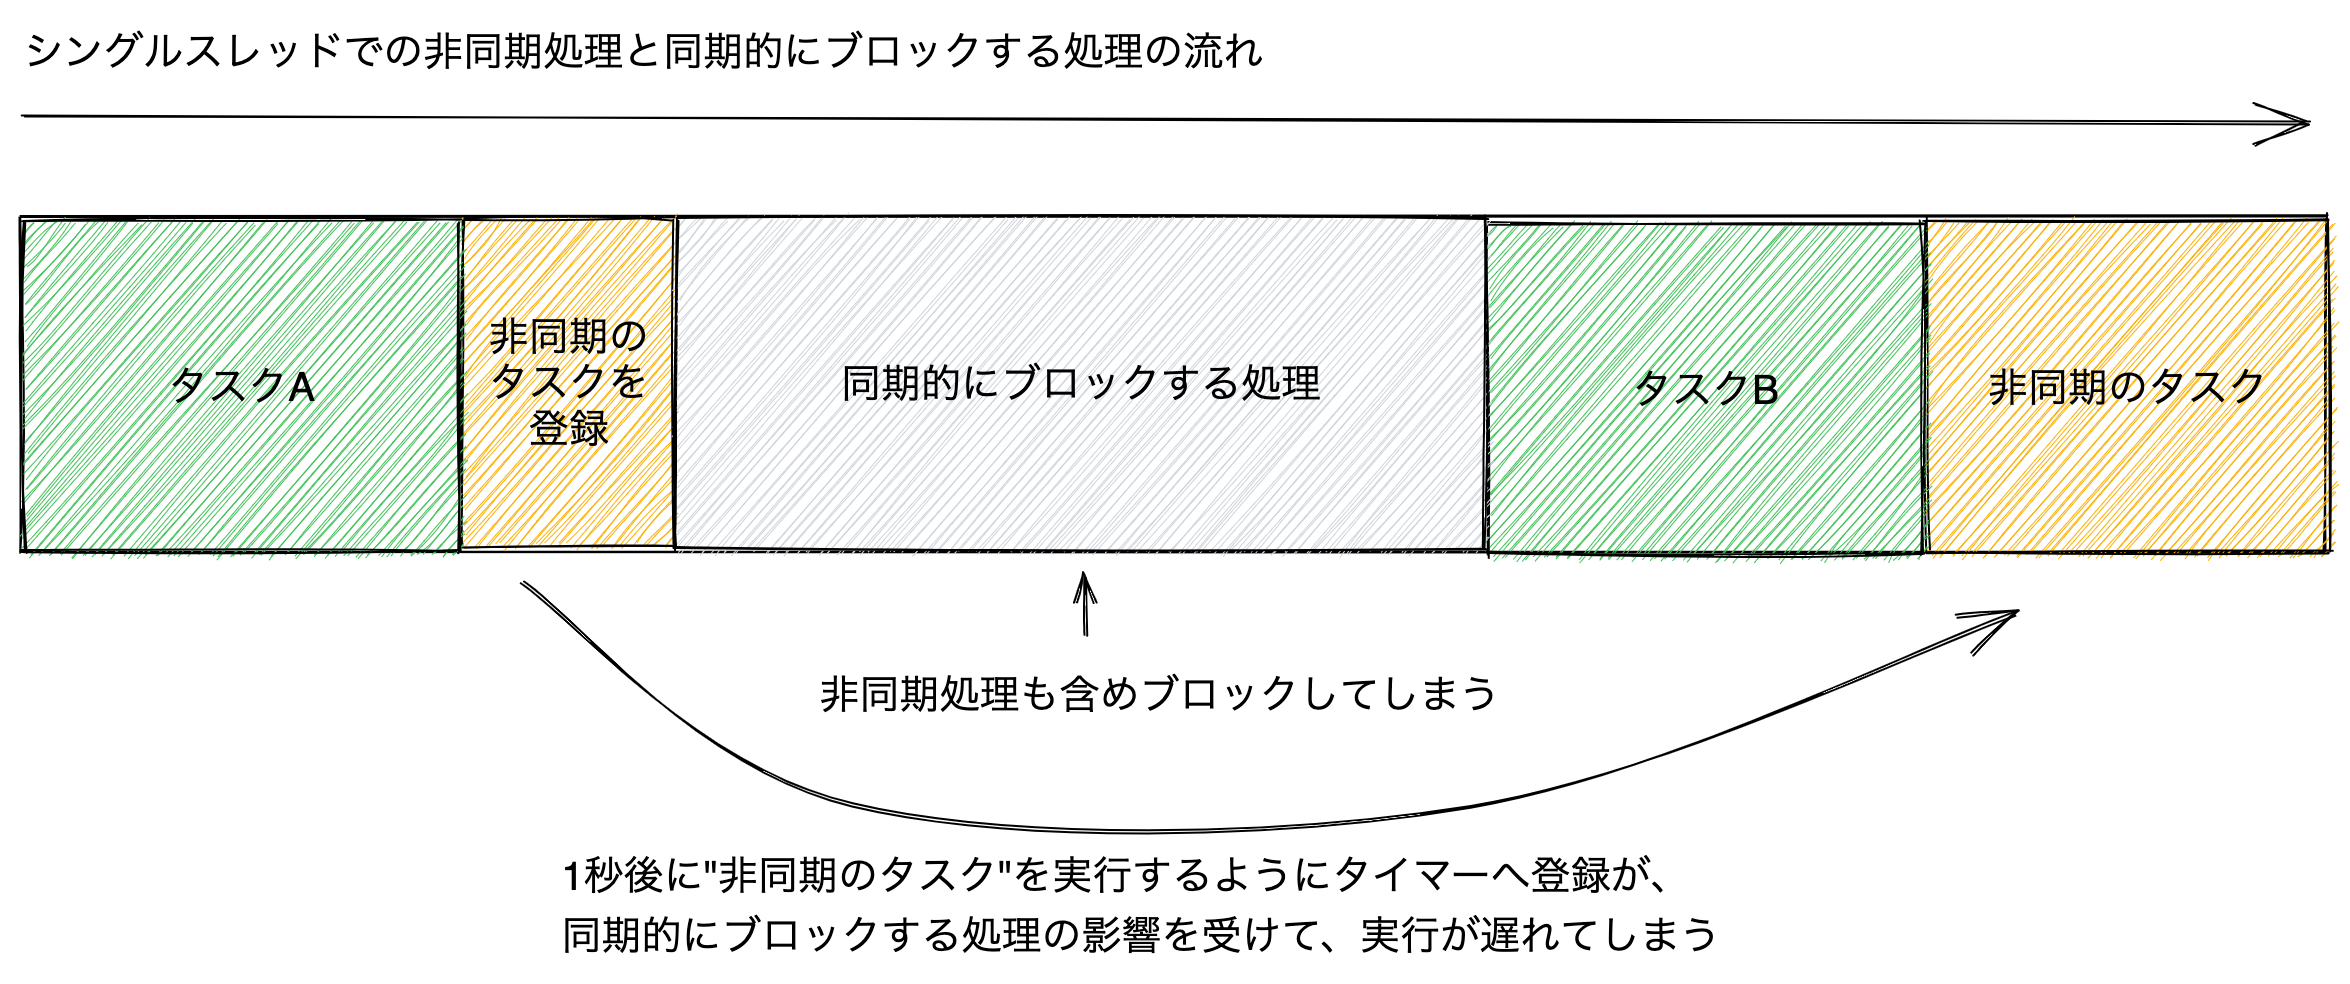
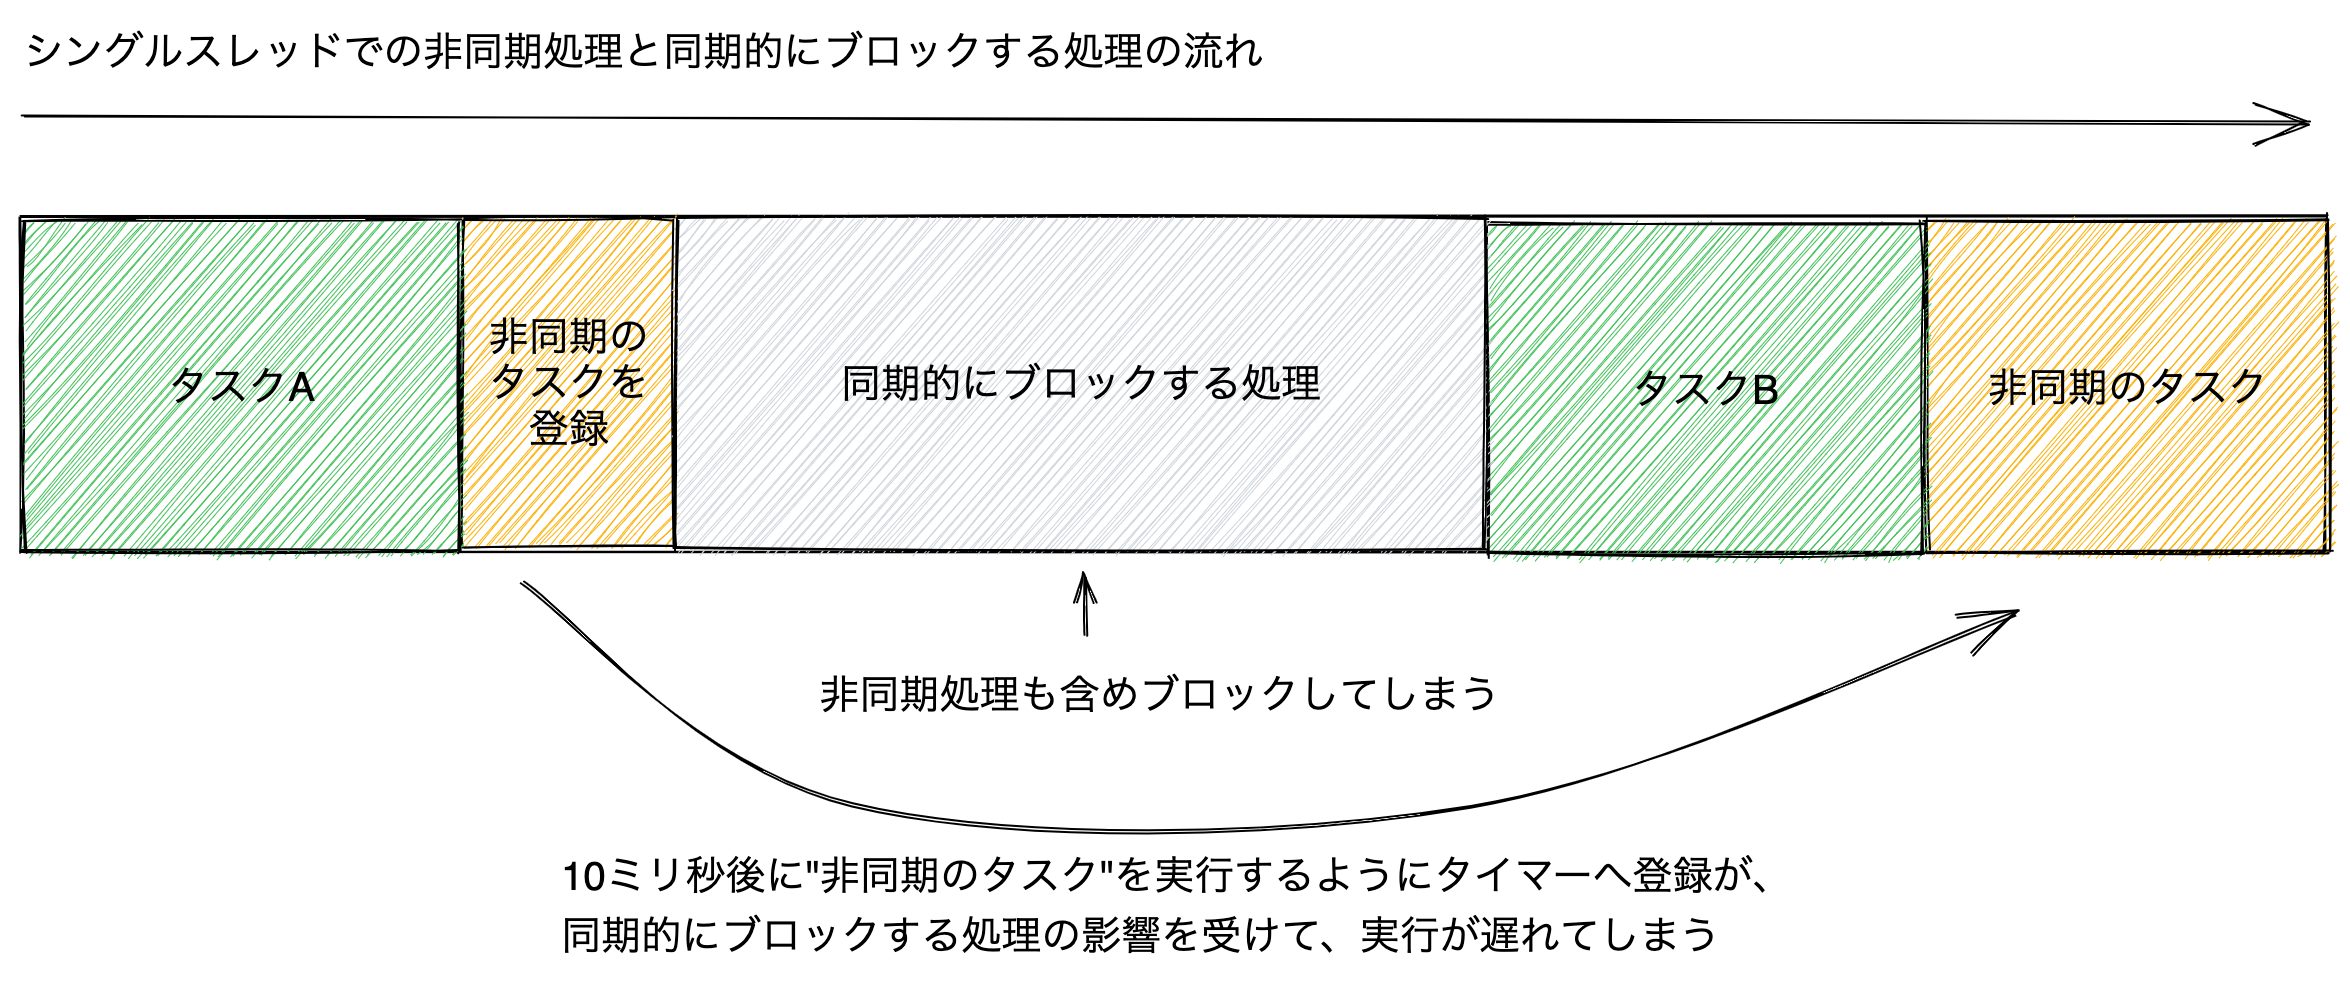
fix

diff --git a/source/basic/async/README.md b/source/basic/async/README.md
@@ -141,18 +141,18 @@ function blockTime(timeout) {
 
 const startTime = Date.now();
 taskA();
-// 1000ミリ秒後(1秒後)にコールバック関数を呼び出すようにタイマーに登録する
+// 10ミリ秒後にコールバック関数を呼び出すようにタイマーに登録する
 setTimeout(() => {
     const endTime = Date.now();
     taskAsync();
     console.log(`非同期処理のコールバックが呼ばれるまで${endTime - startTime}ミリ秒かかりました`);
-}, 1000);
+}, 10);
 blockTime(1000); // 1秒間処理をブロックする
 taskB();
 ```
 
-多くの環境では、このときの非同期処理のコールバックが呼ばれるまでは2秒以上かかります。
-これは、1秒後に非同期のタスクを実行するようにタイマーへ登録自体はできていますが、同期的なブロックする処理によって実行が後ろにずれ込んでしまうためです。
+多くの環境では、このときの非同期処理のコールバックが呼ばれるまでは1秒以上かかります。
+これは、10ミリ秒後に非同期のタスクを実行するようにタイマーへ登録自体はできていますが、同期的なブロックする処理によって実行が後ろにずれ込んでしまうためです。
 このように**非同期処理**も**同期処理**の影響を受けることから、同じスレッドで実行されていることがわかります。
 
 ![非同期処理とブロックする同期処理](./img/block--async-single-thread-tasks.png)
